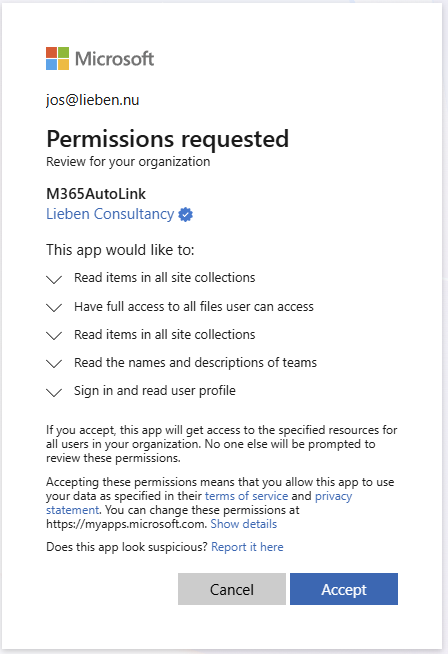
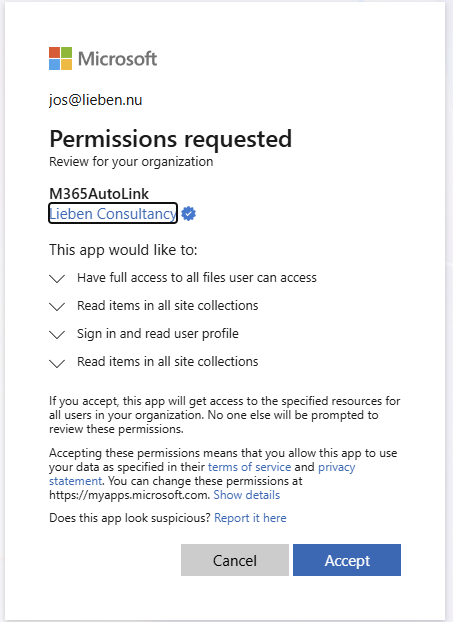
improve docs

diff --git a/README.md b/README.md
@@ -30,24 +30,36 @@ You can edit the `##########START CONFIGURATION##########` block at the top of t
 # Authentication & Permissions
 The script uses Microsoft Graph APIs to discover sites and create shortcuts. 
 
-## Automatic App Registration
+## Automatic App Registration (easiest)
 You can consent to the "Lieben Consultancy" multi-tenant app:
 [Grant Consent](https://login.microsoftonline.com/organizations/adminconsent?client_id=ae7727e4-0471-4690-b155-76cbf5fdcb30)
 
+These are delegated permissions only, and thus 100% safe.
+
+![Graph Permissions](graphpermissions.png)
+
 ## Manual App Registration
-Create your own App Registration in Azure AD:
+If you don't want to use my app registration, you can create your own App Registration in Azure AD:
 1. Create a new App Registration ("Mobile and desktop applications").
 2. Set Redirect URI to `http://localhost`.
-3. Enable "Allow public client flows".
-4. Replace the `$ClientID` variable in the script with your new Application (Client) ID.
+3. Check the box for: https://login.microsoftonline.com/common/oauth2/nativeclient
+4. Enable "Allow public client flows".
+5. Replace the `$ClientID` variable in the script with your new Application (Client) ID.
+6. Add and grant the permissions shown below
 
 ## Required Permissions
 The script requires the following delegated permissions to function:
-- `Files.ReadWrite.All`: To create shortcuts in OneDrive.
-- `Team.ReadBasic.All`: To find Teams you are a member of.
-- `Sites.Read.All`: To find SharePoint sites you have access to.
 
-![Graph Permissions](graphpermissions.png)
+Graph:
+- `Files.ReadWrite.All`: To create shortcuts in OneDrive.
+- `Sites.Read.All`: To find SharePoint sites you have access to.
+- `User.Read`: To allow user access.
+
+Sharepoint:
+- `AllSites.Read`: To get metadata of existing links
+
+Your app registration's permissions should look like this:
+![Graph Permissions](requiredpermissions.png)
 
 # Copyright/License
 https://www.lieben.nu/liebensraum/commercial-use/
@@ -55,7 +67,7 @@ https://www.lieben.nu/liebensraum/commercial-use/
 
 # Support / Risk
 Support at best-effort, use at your own risk.
-When reporting issues, please include `lastRun.log` from `%APPDATA%\M365AutoLink\`.
+When reporting issues here on GitHub, please include `lastRun.log` from `%APPDATA%\M365AutoLink\`.
 
 # Author
 Jos Lieben (https://www.lieben.nu)
